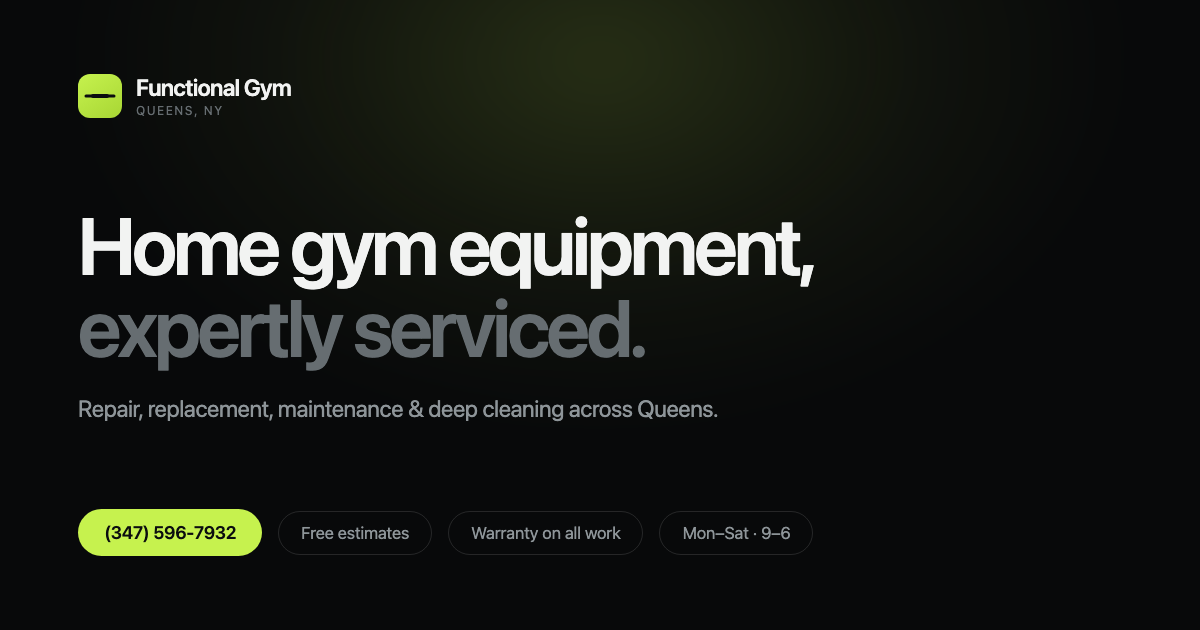
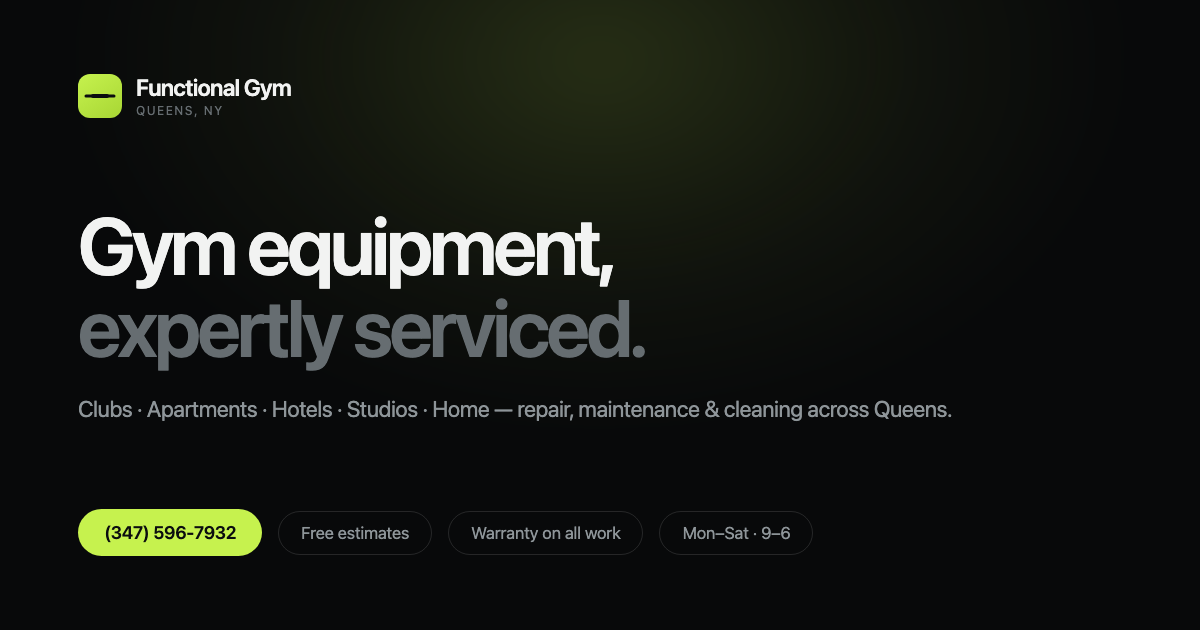
Reposition for all gym types, not just home gyms
Add 'Who we serve' section (clubs, apartment/condo, hotel/corporate,
studio, home, all brands); broaden hero, about, services, FAQ, meta
and structured data accordingly. Refresh OG share image.

Changed region(s): [[0.0617, 0.3317, 0.6783, 0.4825], [0.0617, 0.6333, 0.8017, 0.6635]]

diff --git a/index.html b/index.html
@@ -3,8 +3,8 @@
 <head>
 <meta charset="UTF-8">
 <meta name="viewport" content="width=device-width, initial-scale=1.0">
-<title>Functional Gym LLC — Home Gym Equipment Service, Queens NY</title>
-<meta name="description" content="Specialist repair, replacement, maintenance and deep cleaning for home gym equipment in Queens, NY. Family owned. Free estimates, warranty on all work, emergency call-outs. (347) 596-7932">
+<title>Functional Gym LLC — Gym Equipment Repair &amp; Service, Queens NY</title>
+<meta name="description" content="Repair, replacement, maintenance and deep cleaning for gym equipment in Queens, NY — fitness clubs, apartment &amp; hotel gyms, studios and home setups. Family owned. Free estimates, warranty on all work. (347) 596-7932">
 <link rel="canonical" href="https://functionalgymllc.com/">
 <meta name="theme-color" content="#08090A">
 
@@ -15,15 +15,15 @@
 <!-- link previews when the URL is texted or shared -->
 <meta property="og:type" content="website">
 <meta property="og:site_name" content="Functional Gym LLC">
-<meta property="og:title" content="Home gym equipment, expertly serviced — Queens, NY">
-<meta property="og:description" content="Specialist repair, replacement, maintenance and deep cleaning for home gym equipment across Queens. Free estimates, warranty on all work. (347) 596-7932">
+<meta property="og:title" content="Gym equipment, expertly serviced — Queens, NY">
+<meta property="og:description" content="Repair, replacement, maintenance and deep cleaning for gym equipment across Queens — clubs, apartment &amp; hotel gyms, studios and home setups. Free estimates, warranty on all work. (347) 596-7932">
 <meta property="og:url" content="https://functionalgymllc.com/">
 <meta property="og:image" content="https://functionalgymllc.com/og-image.png">
 <meta property="og:image:width" content="1200">
 <meta property="og:image:height" content="630">
 <meta name="twitter:card" content="summary_large_image">
-<meta name="twitter:title" content="Home gym equipment, expertly serviced — Queens, NY">
-<meta name="twitter:description" content="Repair, replacement, maintenance and cleaning for home gyms in Queens, NY. Free estimates, warranty on all work.">
+<meta name="twitter:title" content="Gym equipment, expertly serviced — Queens, NY">
+<meta name="twitter:description" content="Repair, replacement, maintenance and cleaning for gyms of every size in Queens, NY. Free estimates, warranty on all work.">
 <meta name="twitter:image" content="https://functionalgymllc.com/og-image.png">
 
 <!-- local business structured data (helps Google Maps / local search) -->
@@ -32,7 +32,7 @@
   "@context":"https://schema.org",
   "@type":"LocalBusiness",
   "name":"Functional Gym LLC",
-  "description":"Repair, replacement, maintenance and cleaning services for home gym equipment in Queens, NY.",
+  "description":"Repair, replacement, maintenance and cleaning services for gym equipment in Queens, NY — for fitness clubs, apartment and hotel gyms, studios and home setups.",
   "url":"https://functionalgymllc.com/",
   "telephone":"+1-347-596-7932",
   "email":"[email redacted]",
@@ -45,10 +45,10 @@
   }],
   "paymentAccepted":"Cash, Credit Card, Check",
   "hasOfferCatalog":{
-    "@type":"OfferCatalog","name":"Home gym equipment services",
+    "@type":"OfferCatalog","name":"Gym equipment services",
     "itemListElement":[
-      {"@type":"Offer","itemOffered":{"@type":"Service","name":"Home gym equipment repair & replacement"}},
-      {"@type":"Offer","itemOffered":{"@type":"Service","name":"Home gym equipment maintenance & cleaning"}}
+      {"@type":"Offer","itemOffered":{"@type":"Service","name":"Gym equipment repair & replacement"}},
+      {"@type":"Offer","itemOffered":{"@type":"Service","name":"Gym equipment maintenance & cleaning"}}
     ]
   }
 }
@@ -342,6 +342,22 @@
   .callbar .a1{background:var(--accent);color:var(--ink)}
   .callbar .a2{background:rgba(255,255,255,.07);color:var(--text);border:1px solid var(--line)}
 
+  /* ---------- who we serve ---------- */
+  .serve{padding:100px 0}
+  .serve-grid{display:grid;grid-template-columns:repeat(3,1fr);gap:20px}
+  .serve-card{
+    background:var(--surface);border:1px solid var(--line);border-radius:var(--r-lg);
+    padding:32px 30px;transition:transform .4s var(--ease),border-color .4s var(--ease);
+  }
+  .serve-card:hover{transform:translateY(-4px);border-color:rgba(198,242,78,.4)}
+  .serve-card .ic{
+    width:46px;height:46px;border-radius:12px;background:rgba(198,242,78,.1);
+    display:grid;place-items:center;margin-bottom:20px;color:var(--accent);
+  }
+  .serve-card .ic svg{width:24px;height:24px}
+  .serve-card h3{font-size:1.18rem;margin-bottom:8px;letter-spacing:-.02em}
+  .serve-card p{color:var(--muted);font-size:.96rem;letter-spacing:-.008em}
+
   /* ---------- scroll reveal ---------- */
   .rv{opacity:0;transform:translateY(22px);transition:opacity .8s var(--ease),transform .8s var(--ease)}
   .rv.in{opacity:1;transform:none}
@@ -391,10 +407,10 @@
       <span>Functional Gym<small>Queens, NY</small></span>
     </a>
     <nav class="navlinks">
+      <a href="#who">Who we serve</a>
       <a href="#services">Services</a>
       <a href="#process">Process</a>
       <a href="#about">About</a>
-      <a href="#reviews">Reviews</a>
       <a href="#faq">FAQ</a>
     </nav>
     <div class="nav-right">
@@ -406,10 +422,10 @@
     </div>
   </div>
   <nav class="mnav" id="mnav">
+    <a href="#who">Who we serve</a>
     <a href="#services">Services</a>
     <a href="#process">Process</a>
     <a href="#about">About</a>
-    <a href="#reviews">Reviews</a>
     <a href="#faq">FAQ</a>
     <a href="tel:+13475967932" class="btn btn-line">Call (347) 596-7932</a>
     <a href="#book" class="btn btn-accent" style="margin-top:9px">Book a visit</a>
@@ -422,8 +438,8 @@
 <section class="hero">
   <div class="wrap">
     <span class="eyebrow rv">Family owned · Serving Queens, NY</span>
-    <h1 class="balance rv">Home gym equipment,<br><span class="soft">expertly serviced.</span></h1>
-    <p class="lede rv">Specialist repair, replacement, maintenance and deep cleaning for home gyms across Queens. Diagnosed properly, quoted upfront, guaranteed in writing.</p>
+    <h1 class="balance rv">Gym equipment,<br><span class="soft">expertly serviced.</span></h1>
+    <p class="lede rv">Repair, replacement, maintenance and deep cleaning for gyms of every size across Queens — fitness clubs, apartment &amp; hotel gyms, studios and home setups. Diagnosed properly, quoted upfront, guaranteed in writing.</p>
     <div class="hero-cta rv">
       <a href="#book" class="btn btn-accent">Book a visit</a>
       <a href="tel:+13475967932" class="btn btn-line">
@@ -457,6 +473,49 @@
   </div>
 </div>
 
+<!-- ============ WHO WE SERVE ============ -->
+<section class="serve" id="who">
+  <div class="wrap">
+    <div class="sec-head rv">
+      <span class="eyebrow">Who we serve</span>
+      <h2 class="balance">Any facility. Any brand. Any scale.</h2>
+      <p class="lede" style="margin-top:20px">From a single treadmill in a spare room to a full floor of cardio and strength equipment — if it's in a gym, we service it.</p>
+    </div>
+    <div class="serve-grid">
+      <div class="serve-card rv">
+        <div class="ic"><svg viewBox="0 0 24 24" fill="none" stroke="currentColor" stroke-width="1.8"><path d="M3 21h18M5 21V7l8-4v18M19 21V11l-6-3"/><path d="M9 9v0M9 12v0M9 15v0"/></svg></div>
+        <h3>Commercial fitness clubs</h3>
+        <p>Big-box gyms and national chains with full floors of cardio and strength equipment. Fleet servicing and scheduled maintenance to keep every machine on the floor.</p>
+      </div>
+      <div class="serve-card rv">
+        <div class="ic"><svg viewBox="0 0 24 24" fill="none" stroke="currentColor" stroke-width="1.8"><path d="M3 21h18M6 21V5a2 2 0 0 1 2-2h8a2 2 0 0 1 2 2v16M10 8h0M14 8h0M10 12h0M14 12h0"/></svg></div>
+        <h3>Apartment &amp; condo gyms</h3>
+        <p>Residential fitness centers for apartment complexes, condos and HOAs. Keep amenity spaces safe, clean and fully working for your residents.</p>
+      </div>
+      <div class="serve-card rv">
+        <div class="ic"><svg viewBox="0 0 24 24" fill="none" stroke="currentColor" stroke-width="1.8"><path d="M2 20h20M4 20V8l8-5 8 5v12M9 20v-6h6v6"/></svg></div>
+        <h3>Hotels &amp; corporate gyms</h3>
+        <p>Hotel fitness rooms and workplace gyms where equipment has to look and run like new for guests and staff, with minimal downtime.</p>
+      </div>
+      <div class="serve-card rv">
+        <div class="ic"><svg viewBox="0 0 24 24" fill="none" stroke="currentColor" stroke-width="1.8"><path d="M4 8v8M20 8v8M7 12h10M4 10v4M20 10v4"/></svg></div>
+        <h3>Boutique &amp; studio gyms</h3>
+        <p>CrossFit boxes, personal-training studios and specialty gyms. Rigs, racks, rowers and functional equipment kept competition-ready.</p>
+      </div>
+      <div class="serve-card rv">
+        <div class="ic"><svg viewBox="0 0 24 24" fill="none" stroke="currentColor" stroke-width="1.8"><path d="M3 12l9-9 9 9M5 10v10h14V10M9 20v-6h6v6"/></svg></div>
+        <h3>Home gyms</h3>
+        <p>Home setups from a single machine to a full garage gym. The same professional service the clubs get, at your door.</p>
+      </div>
+      <div class="serve-card rv">
+        <div class="ic"><svg viewBox="0 0 24 24" fill="none" stroke="currentColor" stroke-width="1.8"><path d="M20 7h-9M14 17H5M17 17a3 3 0 1 0 0-6 3 3 0 0 0 0 6zM7 13a3 3 0 1 0 0-6 3 3 0 0 0 0 6z"/></svg></div>
+        <h3>Every brand of equipment</h3>
+        <p>Life Fitness, Precor, Technogym, Matrix, NordicTrack, Peloton and more — commercial-grade and consumer machines alike.</p>
+      </div>
+    </div>
+  </div>
+</section>
+
 <!-- ============ LIGHT BLOCK: SERVICES + PROCESS ============ -->
 <div class="light-sec">
   <section class="pad" id="services">
@@ -464,7 +523,7 @@
       <div class="sec-head rv">
         <span class="eyebrow dark">Services</span>
         <h2 class="balance">Two disciplines, done to a standard.</h2>
-        <p class="lede dark" style="margin-top:20px">We don't upsell and we don't pad invoices. We fix what's broken, and we keep everything else from breaking.</p>
+        <p class="lede dark" style="margin-top:20px">Whether it's one machine or a whole floor, the standard is the same. We fix what's broken, and we keep everything else from breaking — one-off call-outs or ongoing service contracts.</p>
       </div>
 
       <div class="svc">
@@ -490,9 +549,9 @@
             <i><svg viewBox="0 0 24 24" fill="none" stroke="currentColor" stroke-width="1.9"><path d="M3 21c3-3 3-6 0-9l6-6c3 3 6 3 9 0l-6 6c3 3 3 6 0 9M14 4l6 6"/></svg></i>
           </div>
           <h3>Maintenance &amp; cleaning</h3>
-          <p>Scheduled servicing and deep cleaning that extends equipment life and prevents the breakdowns we get called out for.</p>
+          <p>Scheduled servicing and deep cleaning that extends equipment life and prevents the breakdowns we get called out for. Ideal for facilities that can't afford downtime.</p>
           <ul>
-            <li><svg viewBox="0 0 24 24" fill="none" stroke="currentColor" stroke-width="2.4"><path d="M20 6 9 17l-5-5"/></svg> Preventive maintenance schedules</li>
+            <li><svg viewBox="0 0 24 24" fill="none" stroke="currentColor" stroke-width="2.4"><path d="M20 6 9 17l-5-5"/></svg> Preventive maintenance &amp; service contracts</li>
             <li><svg viewBox="0 0 24 24" fill="none" stroke="currentColor" stroke-width="2.4"><path d="M20 6 9 17l-5-5"/></svg> Belt tracking, tensioning &amp; lubrication</li>
             <li><svg viewBox="0 0 24 24" fill="none" stroke="currentColor" stroke-width="2.4"><path d="M20 6 9 17l-5-5"/></svg> Full safety inspection — cables, bolts, stops</li>
             <li><svg viewBox="0 0 24 24" fill="none" stroke="currentColor" stroke-width="2.4"><path d="M20 6 9 17l-5-5"/></svg> Deep clean &amp; sanitising of contact surfaces</li>
@@ -533,12 +592,13 @@
     <div class="rv">
       <span class="eyebrow">About us</span>
       <h2 class="balance" style="margin-bottom:26px">The people who answer are the people who show up.</h2>
-      <p>Functional Gym is your one-stop solution for repair, replacement, maintenance and cleaning of home gym equipment in Queens, NY.</p>
+      <p>Functional Gym is your one-stop solution for repair, replacement, maintenance and cleaning of gym equipment across Queens, NY — from fitness clubs and apartment gyms to hotels, studios and home setups.</p>
       <p>We're family owned and locally owned. There's no call centre and no rotating cast of subcontractors — the crew at your door is the crew you spoke to on the phone.</p>
-      <p>Our job is simple: keep your equipment functional, efficient and genuinely safe to train on.</p>
+      <p>Our job is simple: keep your equipment functional, efficient and genuinely safe to train on, whatever the size of your facility.</p>
     </div>
     <div class="panel rv">
       <div class="row"><span class="k">Ownership</span><span class="v">Family &amp; locally owned</span></div>
+      <div class="row"><span class="k">We service</span><span class="v">Clubs · Apartments · Hotels · Home</span></div>
       <div class="row"><span class="k">Service area</span><span class="v">Queens, New York</span></div>
       <div class="row"><span class="k">Estimates</span><span class="v acc">Always free</span></div>
       <div class="row"><span class="k">Guarantee</span><span class="v">Warranty on all work</span></div>
@@ -595,7 +655,7 @@
       <div class="faq-wrap rv">
         <details open>
           <summary>What services does Functional Gym offer?<span class="pm"></span></summary>
-          <div class="ans">Repair and replacement services, plus maintenance and cleaning services, for home gym equipment throughout Queens, NY.</div>
+          <div class="ans">Repair and replacement services, plus maintenance and cleaning services, for gym equipment throughout Queens, NY — for fitness clubs, apartment &amp; hotel gyms, studios and home setups alike.</div>
         </details>
         <details>
           <summary>How do I schedule a service?<span class="pm"></span></summary>
@@ -690,7 +750,7 @@
     <div class="f-grid">
       <div>
         <a href="#top" class="logo"><span class="glyph"></span><span>Functional Gym<small>Queens, NY</small></span></a>
-        <p>Family owned specialists in home gym equipment repair, replacement, maintenance and cleaning. Serving Queens, New York.</p>
+        <p>Family owned specialists in gym equipment repair, replacement, maintenance and cleaning — for fitness clubs, apartment &amp; hotel gyms, studios and home setups. Serving Queens, New York.</p>
       </div>
       <div>
         <h4>Services</h4>